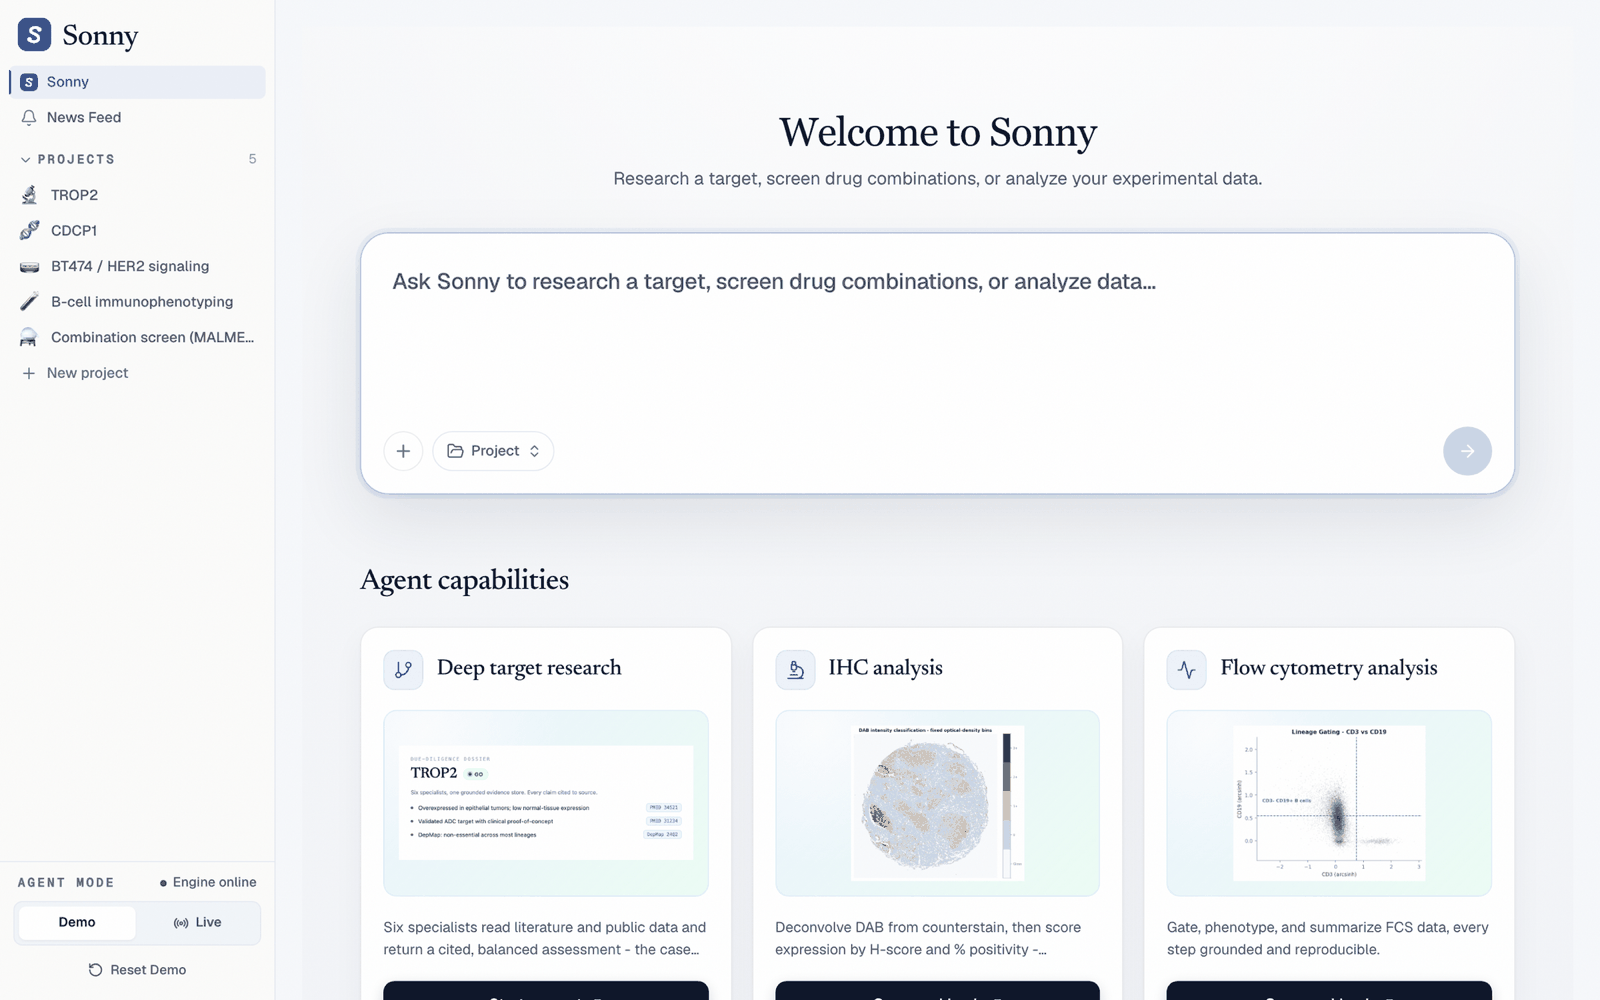
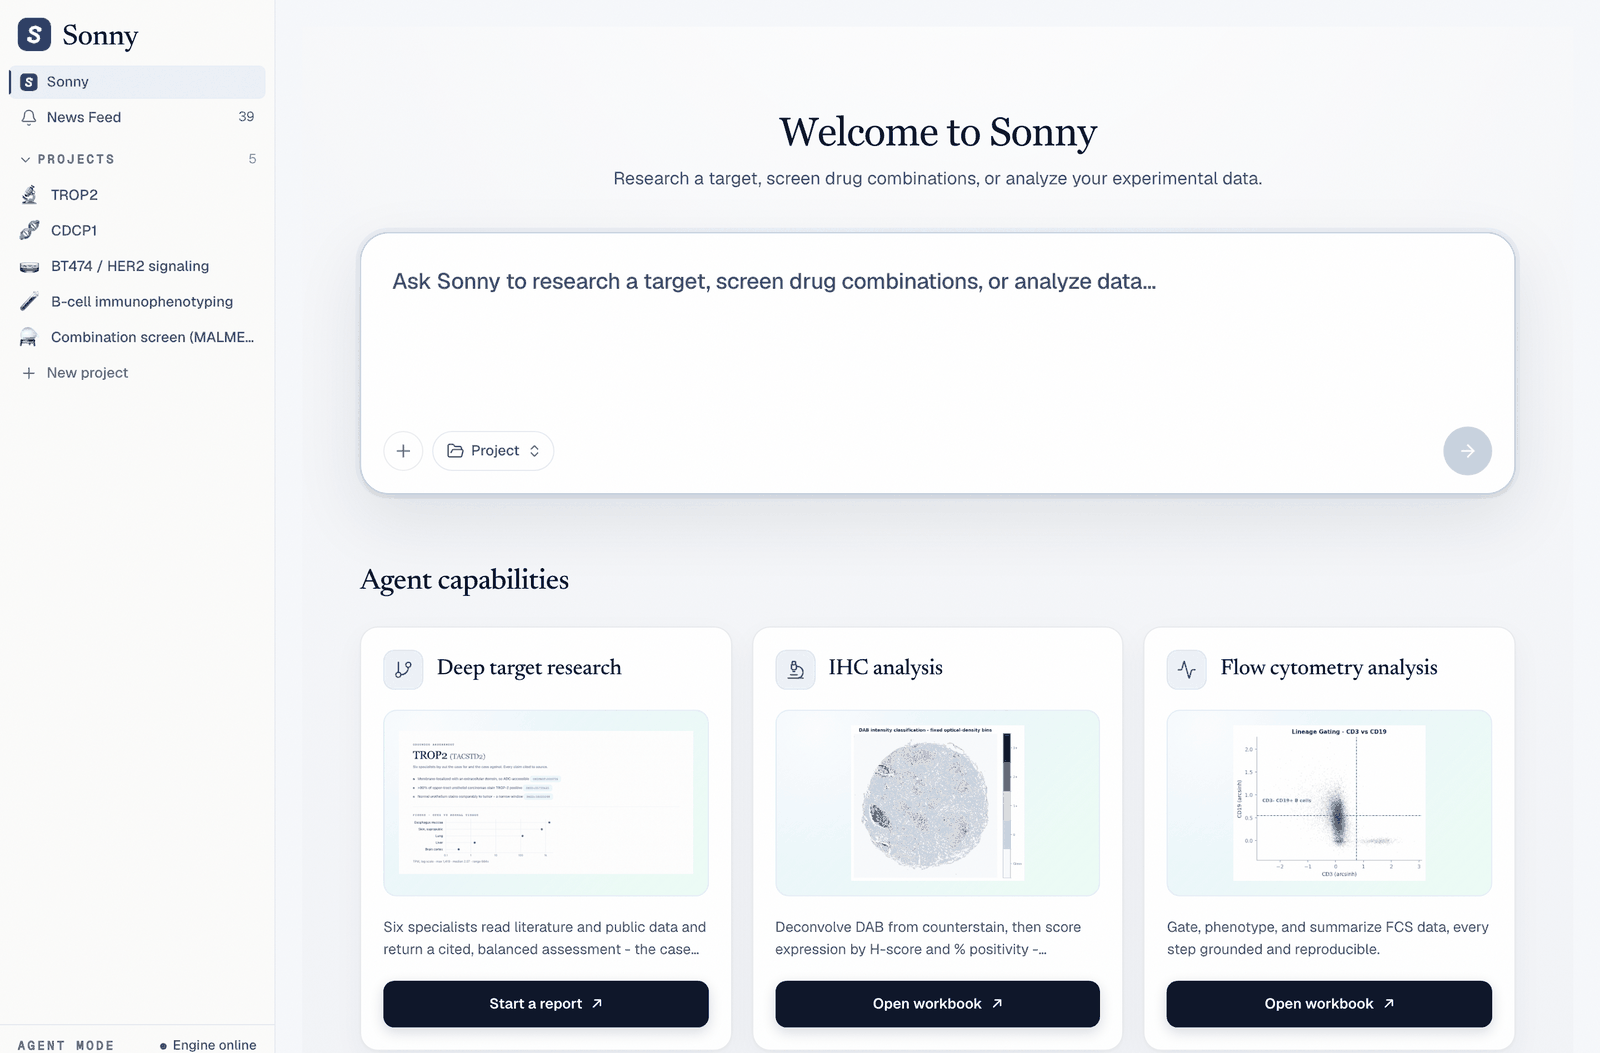
One screenshot, recropped, with redrawn card art (#26)
* docs: redraw the deep-research card art without the verdict

The capability card on the home screen still showed a green GO pill over
"DUE-DILIGENCE DOSSIER" - the last place the verdict framing survived
after the README, package description, design doc and repo description
were changed. It was the first thing a visitor saw.

Two other problems with the old art. Its three bullets were uniformly
green supporting points, which misrepresents a product whose whole claim
is that it argues both sides. And its citations (PMID 34521, PMID 31234,
DepMap 24Q2) were invented, which the design doc's own rule forbids:
every figure shown must be grounded to a real evidence object.

The replacement is drawn entirely from a real completed TROP2 run: two
supporting claims and one risk, in the product's own blue/amber section
colours, each carrying the citation the engine actually attached.
PMID:35735421 and PMID:38020299 are real papers on TROP-2 in urothelial
carcinoma, checked against Europe PMC. The GTEx strip uses five real
tissue values from the same run, spanning the 684x range that decides
the safety window, and doubles as the first hint on the home screen that
the product draws figures at all.

Re-cut to a 2.05 aspect so it fills the card panel rather than
letterboxing like the first attempt.

* docs: recrop the home screenshot so the card CTAs are not sliced

The merged screenshot cut through the capability cards: "Start a report"
[…]

diff --git a/README.md b/README.md
@@ -21,12 +21,6 @@ The product bet: for high-stakes biotech decisions, a transparent reasoning trac
 - **Watchlist + Intelligence Feed.** Track targets and assets and get a monitored feed of new literature, trials, and filings, distilled into digests.
 - **Investment memo + PDF export.** Turn a report into a shareable memo.
 
-![Grounded report with live GTEx and HPA figures](docs/screenshots/report.png)
-
-![Glass-box trace running live](docs/screenshots/glass-box.png)
-
-![Intelligence feed](docs/screenshots/feed.png)
-
 ## Architecture
 
 LUMINA is a Vite/React front end over an Express backend. The interesting part is the **Sonny seam**:
